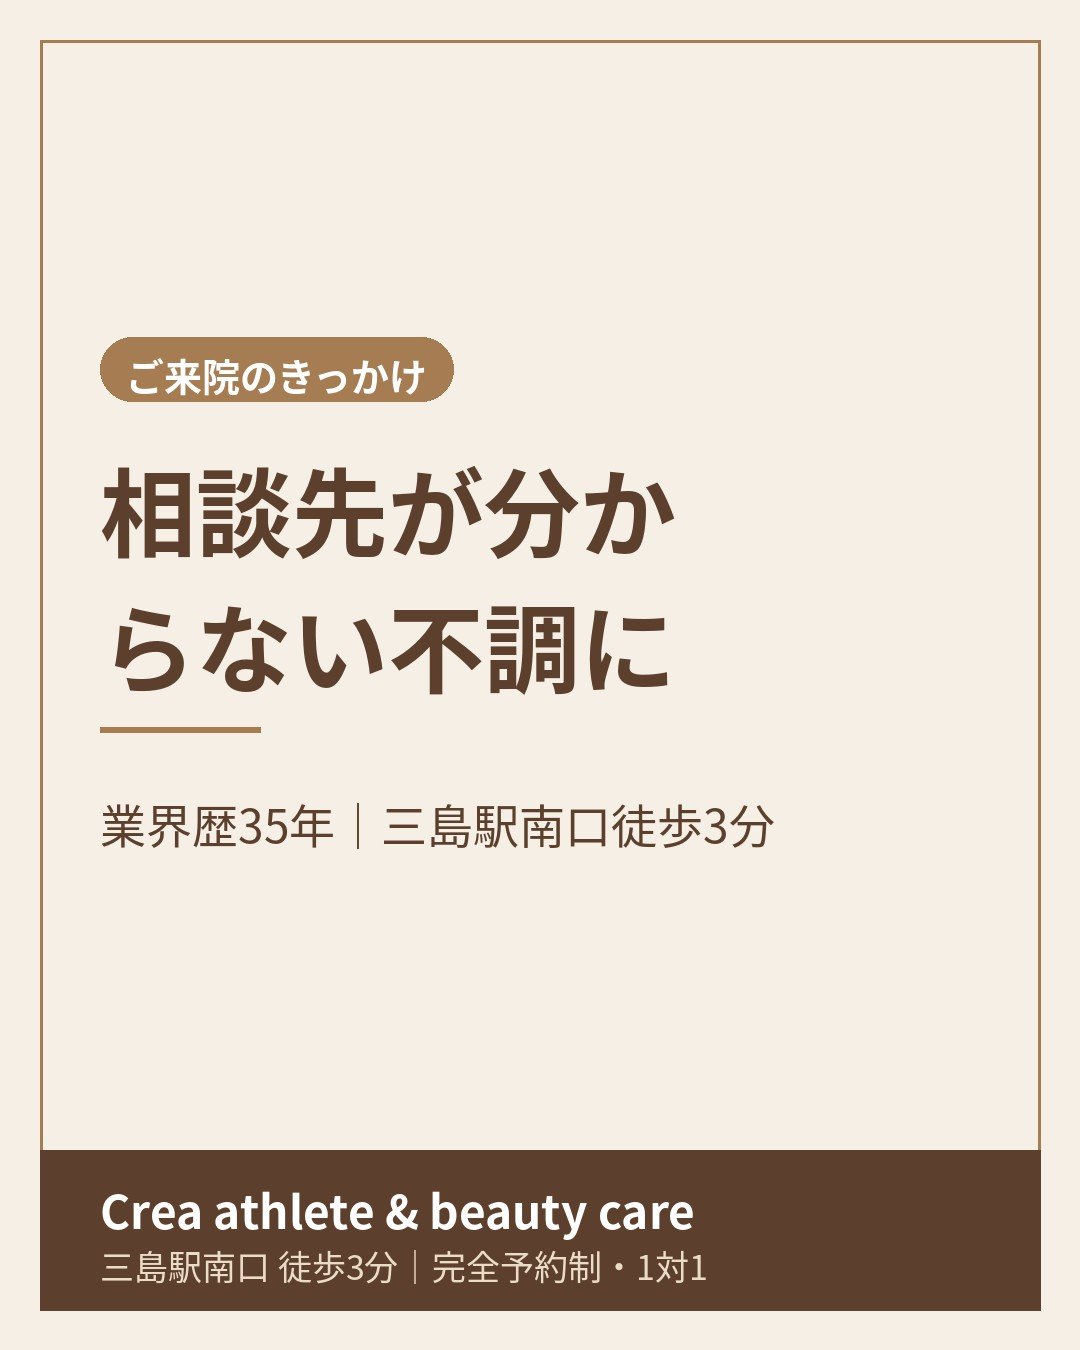
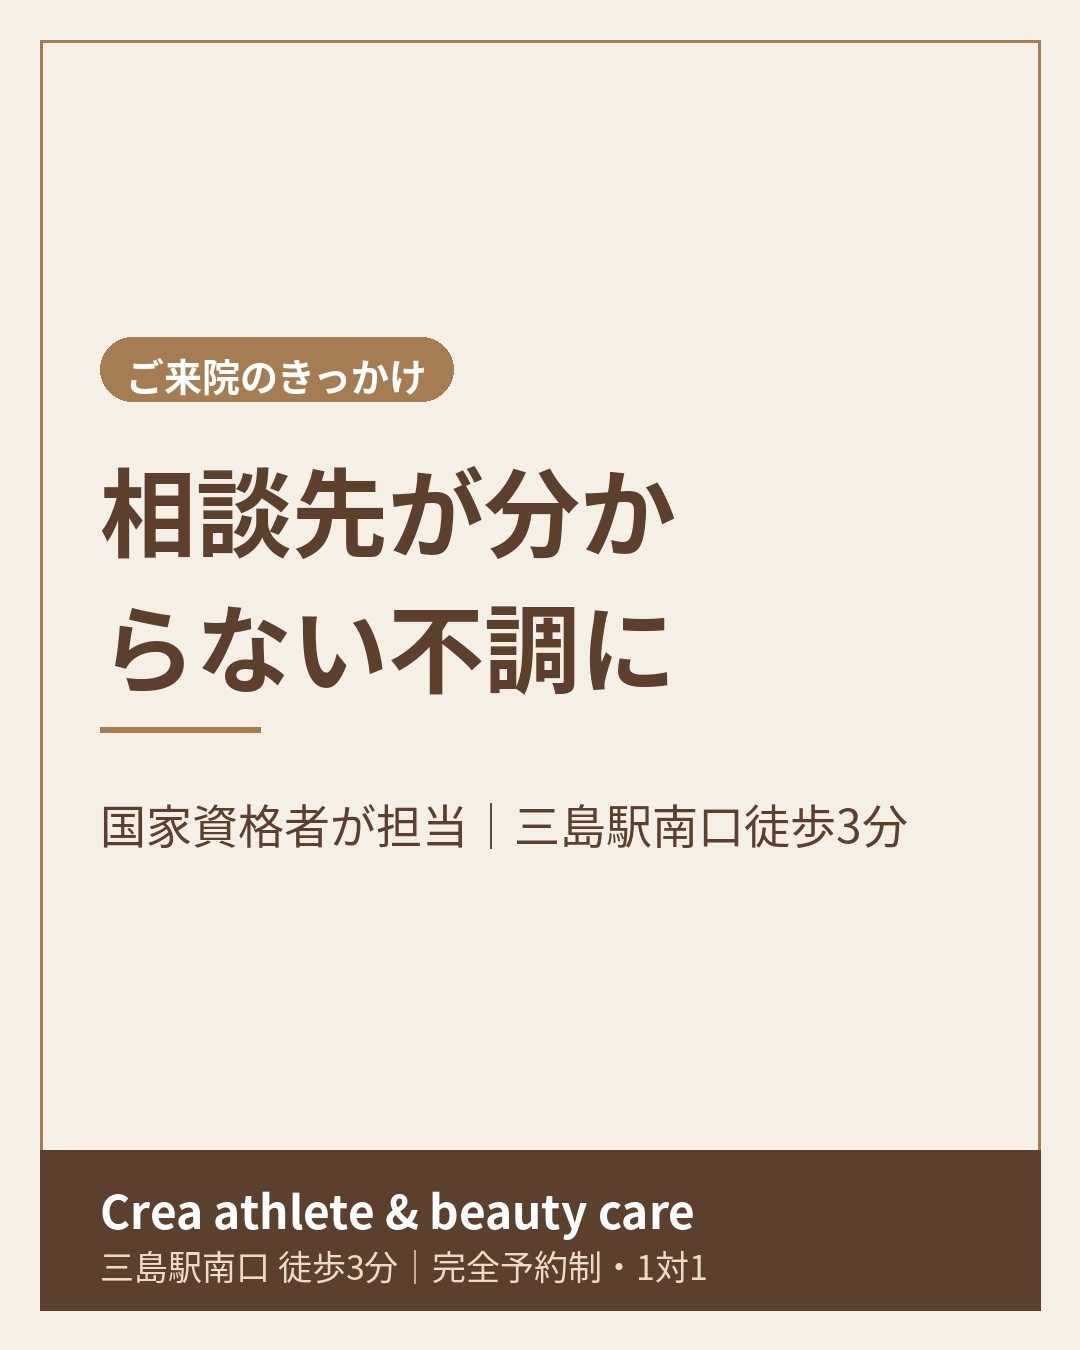
「業界歴35年」の表記を外す（あはき・柔整広告ガイドライン：経歴の広告不可）
- config.yaml: qualifications と strengths から削除
- crea/compliance.py: 「経歴の強調」チェックを追加（業界歴・○年の経験 など）
- data/queue: 予約中の8投稿の本文と、gbp-1121-900 の画像の文言を修正し画像を作り直し

Claude-Session: https://claude.ai/code/session_01MTYtpK8LSJvpjXbZjojQgS

Changed region(s): [[0.0917, 0.5911, 0.8556, 0.6533]]

diff --git a/crea/compliance.py b/crea/compliance.py
@@ -19,6 +19,7 @@ COMMON_NG = {
     "病名・診断": [r"クローン病", r"潰瘍性大腸炎", r"糖尿病", r"がん(?!ば)", r"癌", r"うつ病", r"自律神経失調症",
                r"椎間板ヘルニア", r"脊柱管狭窄", r"リウマチ", r"不妊症", r"パニック障害", r"診断", r"処方"],
     "医療行為の表現": [r"治療", r"診療", r"患者"],
+    "経歴の強調": [r"業界歴", r"(施術|臨床|治療)歴\s?\d+\s?年", r"\d+\s?年の(経験|実績|キャリア)"],
 }
 
 # ホットペッパービューティー専用（登録不可・警告ワード）
